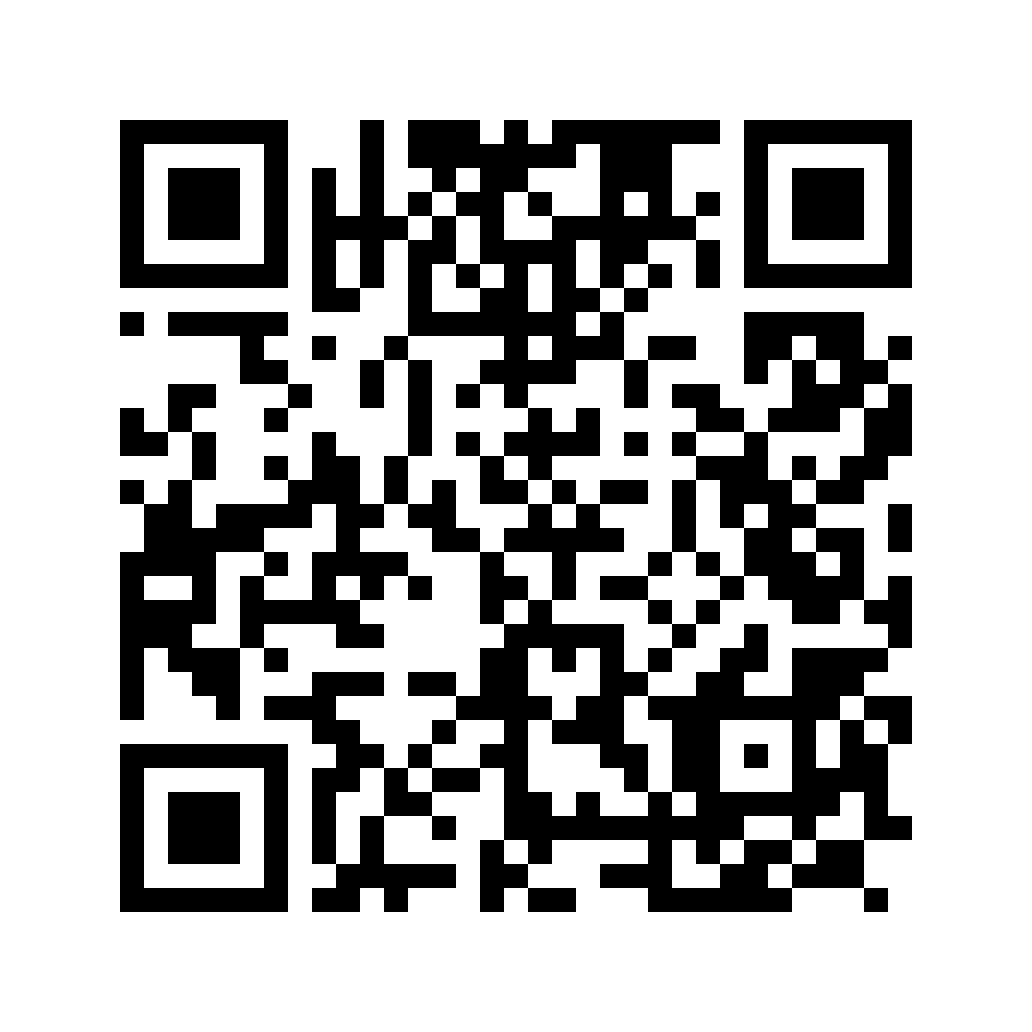
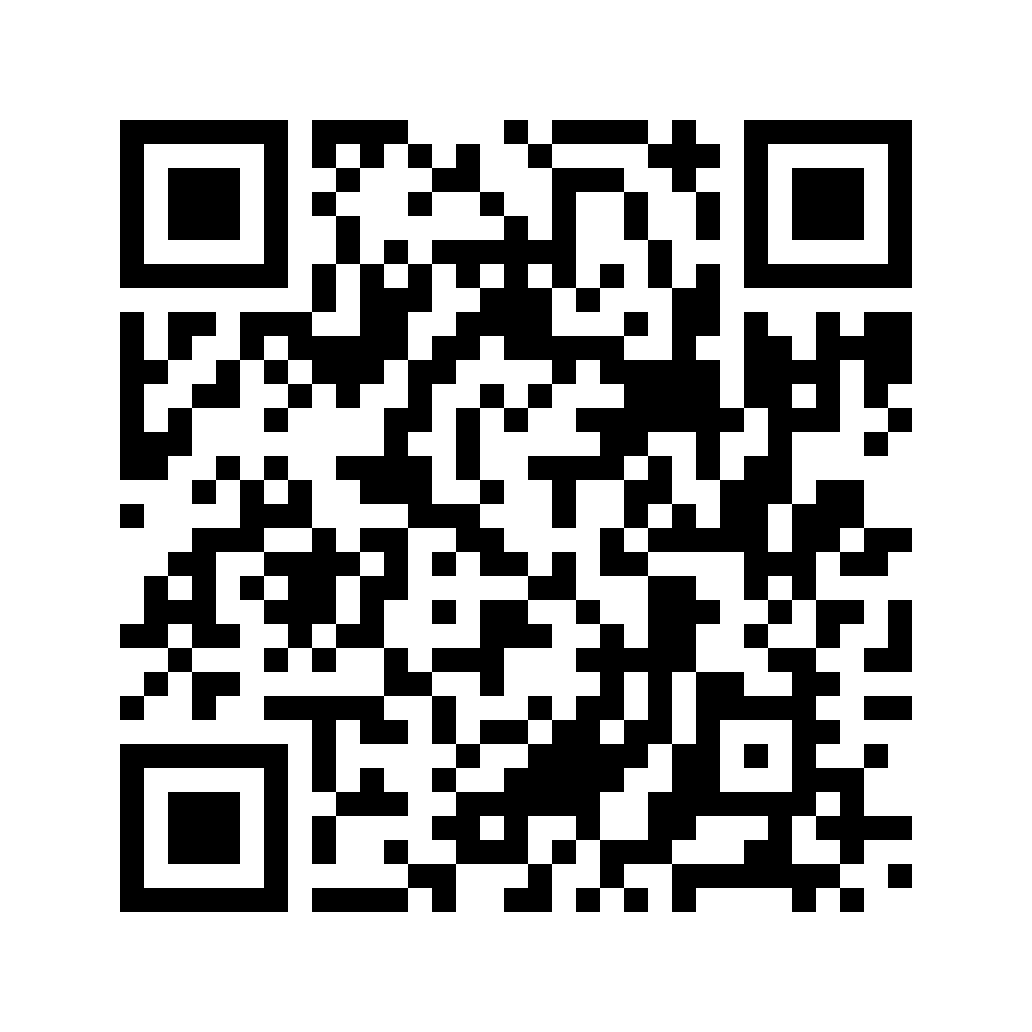
リンク先の変更

Changed region(s): [[0.093, 0.093, 0.8992, 0.8992]]

diff --git a/app.html b/app.html
@@ -57,7 +57,7 @@
       <p class="pwa-install-status" data-pwa-install-status role="status" hidden></p>
       <div class="app-setup">
         <figure class="app-setup-qr">
-          <a href="https://matsu02.github.io/touzen.hiyoshi/index.html#schedule"><img src="assets/qr/hiyoshi-schedule-iphone.png" width="129" height="129" alt="稽古日程のページを開くQRコード"></a>
+          <a href="https://hiyoshi.touzen.jp/index.html#schedule"><img src="assets/qr/hiyoshi-schedule-iphone.png" width="129" height="129" alt="稽古日程のページを開くQRコード"></a>
         </figure>
         <div class="app-native-install" data-pwa-native hidden>
           <h2>アプリを追加</h2>
@@ -69,7 +69,7 @@
             <section class="app-device-guide" data-pwa-ios id="install-iphone" tabindex="-1" aria-labelledby="install-iphone-title">
               <h2 id="install-iphone-title">iPhone・iPad</h2>
               <p class="app-browser-note">以下のURL、または、右上QRコードをSafariで開いて操作してください。</p>
-              <a class="app-schedule-url" data-app-schedule-url href="https://matsu02.github.io/touzen.hiyoshi/index.html#schedule">https://matsu02.github.io/touzen.hiyoshi/index.html#schedule</a>
+              <a class="app-schedule-url" data-app-schedule-url href="https://hiyoshi.touzen.jp/index.html#schedule">https://hiyoshi.touzen.jp/index.html#schedule</a>
               <ol>
                 <li>稽古日程のページで、Safariの「共有」メニューを開きます。</li>
                 <li>「ホーム画面に追加」を選びます。</li>
@@ -79,7 +79,7 @@
             <section class="app-device-guide" data-pwa-android id="install-android" tabindex="-1" aria-labelledby="install-android-title">
               <h2 id="install-android-title">Android</h2>
               <p class="app-browser-note">以下のURL、または、右上QRコードをChromeで開いて操作してください。</p>
-              <a class="app-schedule-url" data-app-schedule-url href="https://matsu02.github.io/touzen.hiyoshi/index.html#schedule">https://matsu02.github.io/touzen.hiyoshi/index.html#schedule</a>
+              <a class="app-schedule-url" data-app-schedule-url href="https://hiyoshi.touzen.jp/index.html#schedule">https://hiyoshi.touzen.jp/index.html#schedule</a>
               <ol>
                 <li>稽古日程のページで、右上の「︙」メニューを開きます。</li>
                 <li>「インストールしてショートカットを作成」→「インストール」を選びます。「ホーム画面に追加」と表示される場合は、そちらを選びます。</li>

diff --git a/sw.js b/sw.js
@@ -1,7 +1,7 @@
 'use strict';
 
 // Bump this version when changing the shell or the offline behavior.
-const CACHE_VERSION = 'v4';
+const CACHE_VERSION = 'v5';
 const APP_ROOT = new URL('./', self.registration.scope);
 const CACHE_PREFIX = `hiyoshi-pwa-${APP_ROOT.pathname}-`;
 const CACHE_NAME = `${CACHE_PREFIX}${CACHE_VERSION}`;

diff --git a/README.md b/README.md
@@ -63,7 +63,7 @@ announcements: [
 
 - 上部メニューの「日程確認アプリ」から、追加案内の専用ページ `app.html` を開きます。
 - ブラウザのインストール画面を利用できる場合は、「アプリを追加する」ボタンを表示します。ボタンを押すとブラウザの追加画面が開きます。
-- 緑色の案内枠の右上に、稽古日程ページを開く共通のQRコードを一つ表示します。追加画面を利用できない場合は、端末に合う手順を表示します。iPhone・iPad／Androidの各項目には、案内文と稽古日程URL `https://matsu02.github.io/touzen.hiyoshi/index.html#schedule` を掲載します。そのURLまたは右上のQRコードから稽古日程のページを開き、ホーム画面に追加します。
+- 緑色の案内枠の右上に、稽古日程ページを開く共通のQRコードを一つ表示します。追加画面を利用できない場合は、端末に合う手順を表示します。iPhone・iPad／Androidの各項目には、案内文と稽古日程URL `https://hiyoshi.touzen.jp/index.html#schedule` を掲載します。そのURLまたは右上のQRコードから稽古日程のページを開き、ホーム画面に追加します。
 - iPhone・iPad：稽古日程のページをSafariで開き、「共有」→「ホーム画面に追加」→「追加」。表示される場合は「ウェブアプリとして開く」をオンにします。
 - Android：稽古日程のページをChromeで開き、メニューから「インストールしてショートカットを作成」→「インストール」、または「ホーム画面に追加」を選びます。
 
